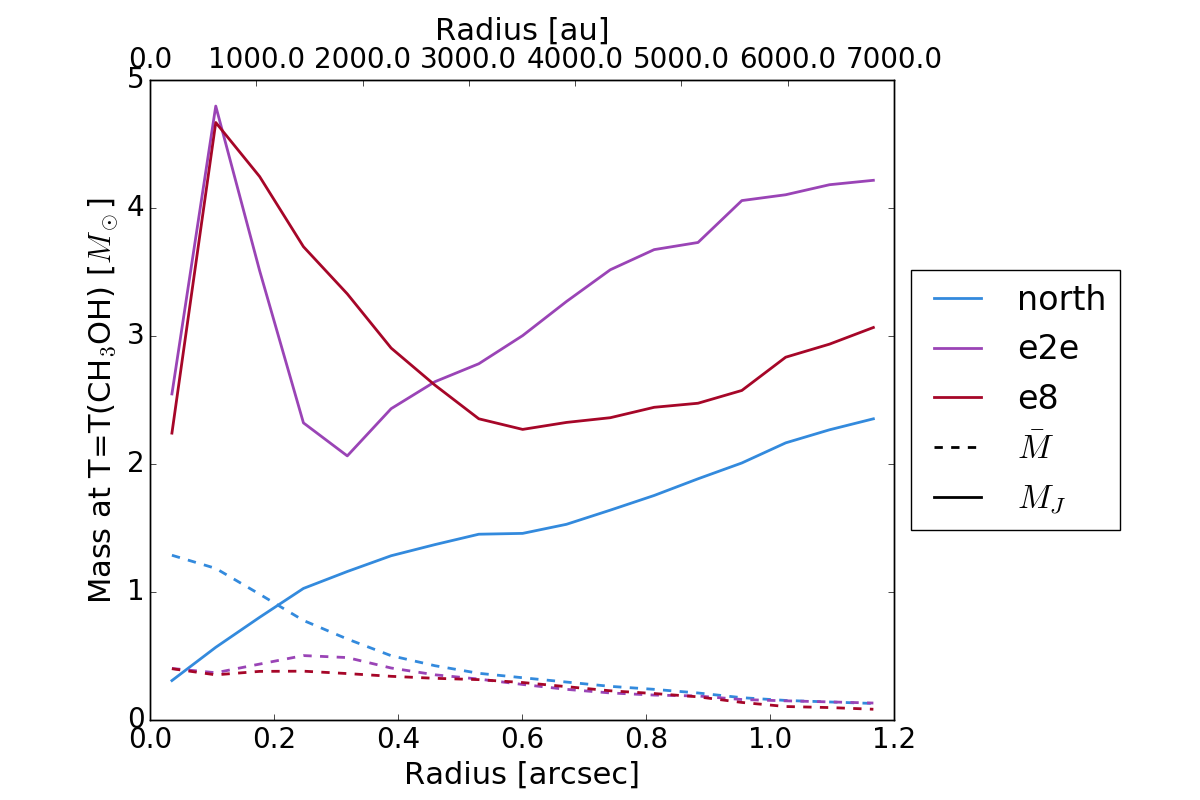
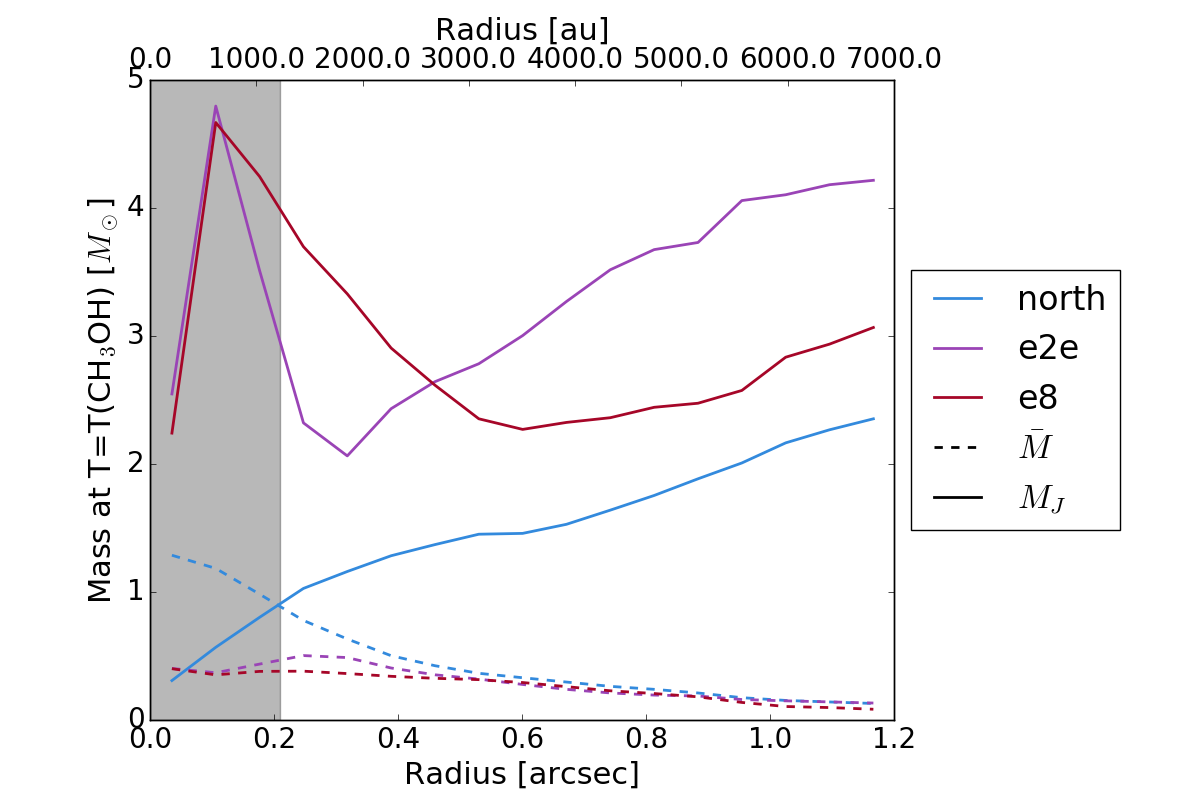
figure cleanups

Changed region(s): [[0.1233, 0.0938, 0.2467, 0.9062]]

diff --git a/analysis/radial_profiles.py b/analysis/radial_profiles.py
@@ -75,7 +75,7 @@ def make_rprof(regions, ploteach=False):
             ppbeam = (beam.sr/(pixscale**2*u.deg**2)).decompose().value / u.beam
             #print("fn  {0} ppbeam={1:0.2f}".format(fn, ppbeam))
             
-            for ii,(name,position) in enumerate(zip(names, center_positions)):
+            for jj,(name,position) in enumerate(zip(names, center_positions)):
                 cutout = Cutout2D(fh[0].data, position, size, wcs=mywcs)
 
                 nr, bins, rprof = azimuthalAverage(cutout.data, binsize=1.0,
@@ -83,7 +83,7 @@ def make_rprof(regions, ploteach=False):
 
                 linestyle = next(linestyles[name])
 
-                pl.figure(ii)
+                pl.figure(jj)
                 pl.title(name)
                 pl.plot(bins*pixscale*3600., rprof/ppbeam,
                         label=fn.split(".")[0], linestyle=linestyle)
@@ -92,13 +92,15 @@ def make_rprof(regions, ploteach=False):
 
                 cumul_rprof = np.nan_to_num(rprof*nr/ppbeam).cumsum()
 
-                pl.figure(nplots+ii)
+                pl.figure(nplots+jj)
                 pl.title(name)
                 pl.plot(bins*pixscale*3600., cumul_rprof,
                         label=fn.split(".")[0], linestyle=linestyle)
+                if jj == 0:
+                    pl.fill_between([0, beam.major.to(u.arcsec).value], [100,100], [0,0], zorder=-5, alpha=0.2, color='k')
                 pl.ylabel("Cumulative Flux (Jy)")
                 pl.xlabel("Radius [arcsec]")
-                if ii == 0:
+                if jj == 0:
                     ax = pl.gca()
                     ax2 = ax.twiny()
                     ax3 = ax.twinx()
@@ -118,12 +120,14 @@ def make_rprof(regions, ploteach=False):
                     ax3.set_yticklabels(yticks_mass)
                     ax3.set_ylabel("Cumulative Mass (M$_\\odot$, $T=20$ K)")
 
-                pl.figure(nplots*2+ii)
+                pl.figure(nplots*2+jj)
                 pl.title(name)
                 pl.plot(((bins*pixscale*u.deg)*masscalc.distance).to(u.pc,
                                                                      u.dimensionless_angles()),
                         cumul_rprof * masscalc.mass_conversion_factor(),
                         label=fn.split(".")[0], linestyle=linestyle)
+                if jj == 0:
+                    pl.fill_between([0, beam.major.to(u.arcsec).value], [100,100], [0,0], zorder=-5, alpha=0.2, color='k')
                 pl.ylabel("Cumulative Mass (M$_\\odot$, $T=20$ K)")
                 pl.xlabel("Radius (pc)")
 
@@ -354,7 +358,7 @@ def make_rprof(regions, ploteach=False):
         ch3ohT = ch3ohT_hdul[0].data
         dust_brightness,wts = reproject.reproject_interp(fits.open(paths.dpath('W51_te_continuum_best.fits')),
                                                          ch3ohN_hdul[0].header)
-        bm = radio_beam.Beam.from_fits_header(paths.dpath("W51_te_continuum_best.fits"))
+        contbm = radio_beam.Beam.from_fits_header(paths.dpath("W51_te_continuum_best.fits"))
 
         yy,xx = np.indices(ch3ohN.shape)
         if source == 'north':
@@ -368,7 +372,7 @@ def make_rprof(regions, ploteach=False):
         theta = np.arctan2(yyc,xxc)*u.rad
 
         dust_column = dust_emissivity.dust.colofsnu(225*u.GHz, dust_brightness*u.Jy,
-                                                    beamomega=bm,
+                                                    beamomega=contbm,
                                                     temperature=ch3ohT*u.K)
         ch3oh_abundance = ch3ohN / dust_column.value
         mask = (ch3oh_abundance > 1e-10) & (ch3oh_abundance < 1e-5)
@@ -492,6 +496,8 @@ def make_rprof(regions, ploteach=False):
         #pl.title(fn.replace(".image.pbcor.fits",""))
         pl.plot(bins*pixscale*3600., mass_profile,
                 label=name)
+        if ii == 0:
+            pl.fill_between([0, beam.major.to(u.arcsec).value], [100,100], [0,0], zorder=-5, alpha=0.1, color='k')
         pl.ylabel("Cumulative Mass at T(CH$_3$OH)")
         pl.xlabel("Radius [arcsec]")
         if len(names) < 5:
@@ -537,6 +543,8 @@ def make_rprof(regions, ploteach=False):
         pl.plot([0,(7000*u.au/masscalc.distance).to(u.arcsec,
                                                     u.dimensionless_angles()).value],
                 [0,7000], 'k--', alpha=0.5)
+        if ii == 0:
+            pl.fill_between([0, beam.major.to(u.arcsec).value], [8000,8000], zorder=-5, alpha=0.2, color='k')
         pl.ylabel("Azimuthally Averaged $R_J$\nat $T(\\mathrm{CH}_3\\mathrm{OH})$ [au]")
         pl.xlabel("Radius [arcsec]")
         pl.ylim(0,8000)
@@ -692,6 +700,7 @@ def make_rprof(regions, ploteach=False):
         line, = pl.plot(angular_radii, azimuthal_average_MJ, label=name)
         pl.plot(angular_radii, azimuthal_average_mass,
                 linestyle='--', color=line.get_color())
+        pl.fill_between([0, beam.major.to(u.arcsec).value], [100,100], [0,0], zorder=-5, alpha=0.1, color='k')
         pl.ylabel("Mass at T=T(CH$_3$OH) [$M_\odot$]")
         pl.xlabel("Radius [arcsec]")
 

diff --git a/paper1/w51_alma_00308.tex b/paper1/w51_alma_00308.tex
@@ -1189,6 +1189,14 @@ temperature.  To the extent that gas temperature governs the IMF, then, the
 formation of the IMF \emph{within clusters} is therefore predominantly
 self-regulated, with little external influence.
 
+%OOPS.  Good idea, but centroids are too inaccurate.
+% There is additional evidence that the OB stars driving \hii regions are
+% decoupled from the dense gas that is forming stars.  In the W51 e1 cluster
+% of \hii regions, the molecular gas has a consistent velocity of
+% $\v_{LSR}=55-56$ \kms.  The ionized gas, as measured through the H77$\alpha$
+% recombination line \citep{Ginsburg2016b}, is uniformly moving at different
+% velocities, $v_{\mathrm{e1}} = 
+
 % something about implications for star formation on galactic scales
 
 
@@ -1379,6 +1387,18 @@ is a disk and an ionizing photosphere, there should be an expanding bipolar
 \hii region \citep{Keto2006a}.  The lack of such a feature suggests that the
 stellar photosphere is not emitting ionizing photons.
 
+\subsubsection{Multiplicity}
+\todo{Go into this more.}
+High-mass stars preferentially form in multiples \citep{Zinnecker2007a}.
+One explanation for the low ionizing luminosity but high total luminosity would
+be the presence of many moderate-mass ($M\lesssim8$ \msun) stars forming
+together.  The presence of single bipolar outflows suggests that, if there are
+multiple systems, they are in all cases accreting from a common disk.  Given
+the mass reservoirs available, though, there is little reason to believe that
+multiplicity is the \emph{only} explanation for the high-luminosity,
+low-ionizing luminosity sources: if multiples are forming, we should expect at
+least one of them to reach O-star mass.
+
 \subsection{Fragmentation: Jeans analysis}
 \label{sec:fragmentation}
 Fragmentation is one of the critical problems in high-mass star formation.
@@ -1511,9 +1531,9 @@ all without the presence of a central heating source.  Should these $>200$
 \msun cores have been present before high-mass star formation initiated,
 resting at $T\sim20$ K as in a typical molecular cloud, they would have been
 subject to Jeans fragmentation on a much smaller scale and would have formed a
-cluster of smaller stars \citep[][reached the same conclusion that high-mass
-cores cannot be formed with only low-mass stellar feedback as a heating source
-by examining an earlier-stage high-mass star-forming region]{Longmore2011a}.
+cluster of smaller stars (\citet{Longmore2011a} reached the same conclusion
+that high-mass cores cannot be formed with only low-mass stellar feedback as a
+heating source by examining an earlier-stage high-mass star-forming region).
 This prior instability implies that the mass currently in the core had to be
 assembled from larger scales while suppressing or slowing collapse on smaller
 scales, which is essentially the opposite of inside-out collapse

diff --git a/analysis/dendrogramming.py b/analysis/dendrogramming.py
@@ -32,7 +32,7 @@ resid = residfile[0].data
 smresid = convolve_fft(np.nan_to_num(resid), Gaussian2DKernel(30))
 resid[np.isnan(resid)] = 0.01 # make the noise outside very high
 # NOT CORRECT noise = convolve_fft(np.abs(resid-smresid),  Gaussian2DKernel(30))
-noise2 = convolve_fft((resid-smresid)**2,  Gaussian2DKernel(30))**0.5
+noise = convolve_fft((resid-smresid)**2,  Gaussian2DKernel(30))**0.5
 residfile[0].data = noise
 residfile.writeto(paths.dpath('W51_te_continuum_best_noise.fits'), clobber=True)
 # lowest reasonable noise level is 0.2 mJy/beam
